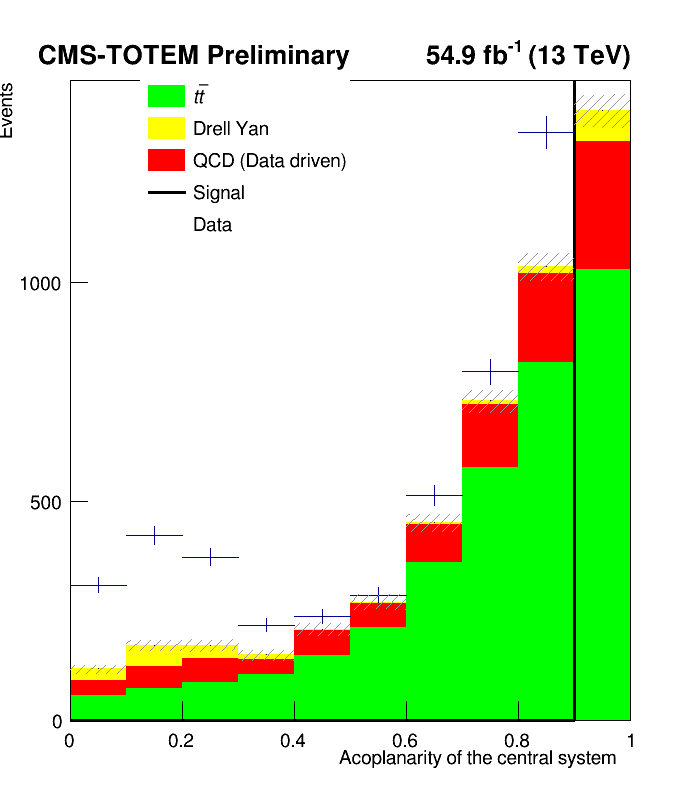
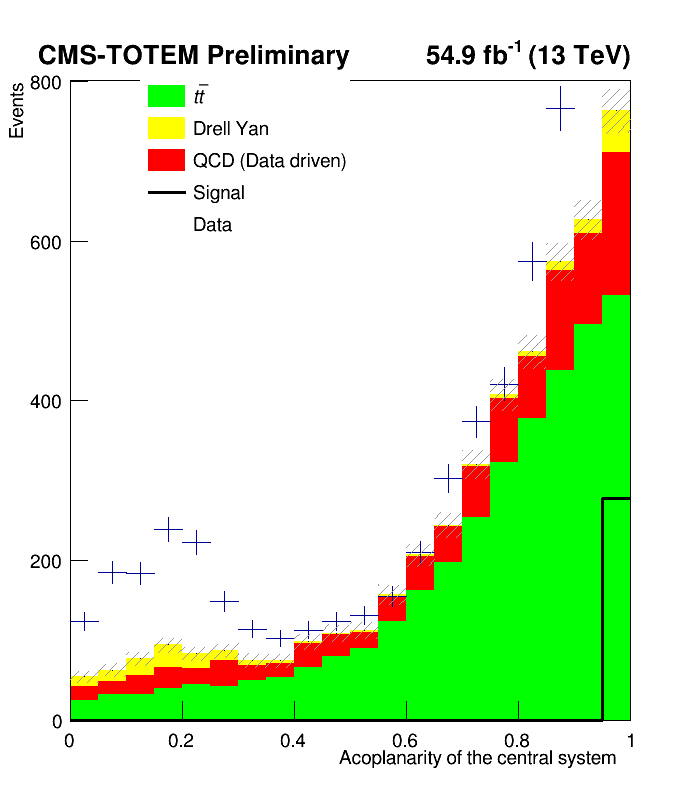
back to plots looking reasonable

diff --git a/MuTau_channel/plot_m_new.cpp b/MuTau_channel/plot_m_new.cpp
@@ -71,15 +71,15 @@ int main(){
         double w_qcd=1.;
         double w_ttjets=0.15;
         double w_dy=1.81;
-	double w_sinal=0.5;
+	    double w_sinal=0.02;
 
         double min_aco=0.0;
         double max_aco=1.0;
-        int bin_aco=10;
+        int bin_aco=20;
 
         double min_m=0;
         double max_m=1200;
-        int  bin_m=10;
+        int  bin_m=30;
 
         double min_r=-2.2;
         double max_r=2.2;
@@ -87,11 +87,11 @@ int main(){
 
 	double min_pt=0;
         double max_pt=600;
-        int bin_pt=10;
+        int bin_pt=30;
 
 	double min_mm=-1500;
         double max_mm=200;
-        int bin_mm=10;
+        int bin_mm=20;
 
 	double min_ra=-2.2;
         double max_ra=2.2;
@@ -235,9 +235,9 @@ int main(){
                 int o=tree_data->GetEvent(i);
                 if(tree_data->GetLeaf("sist_mass") ->GetValue(0) >=0){
                         // w_data = tree_data->GetLeaf("weight")->GetValue(0);
-                        w_data=1;
-                        w_qcd = tree_qcd->GetLeaf("weight")->GetValue(0);
-                        cout<<"q_qcd"<<w_qcd<<endl;
+                        // w_data=1;
+                        // w_qcd = tree_qcd->GetLeaf("weight")->GetValue(0);
+                        // cout<<"q_qcd"<<w_qcd<<endl;
                         
                 n_data = n_data + w_data;
                 // cout << "i am here 1" << endl;
@@ -383,7 +383,7 @@ int main(){
                 // w_sinal=1*50;
                 // cout<<"w_sinal: "<<w_sinal<<endl;
                 m_sinal.Fill(tree_sinal->GetLeaf("sist_mass")->GetValue(0),w_sinal);
-		aco_sinal.Fill(tree_sinal->GetLeaf("sist_acop")->GetValue(0),w_sinal);
+		aco_sinal.Fill(tree_sinal->GetLeaf("acop")->GetValue(0),w_sinal);
 		r_sinal.Fill(tree_sinal->GetLeaf("sist_rap")->GetValue(0)-0.5*log(tree_sinal->GetLeaf("xi_arm1_1")->GetValue(0)/tree_sinal->GetLeaf("xi_arm2_1")->GetValue(0)),w_sinal);
 		pt_sinal.Fill(tree_sinal->GetLeaf("sist_pt")->GetValue(0),w_sinal);
 		mm_sinal.Fill(tree_sinal->GetLeaf("sist_mass")->GetValue(0)-13000.*sqrt(tree_sinal->GetLeaf("xi_arm1_1")->GetValue(0)*tree_sinal->GetLeaf("xi_arm2_1")->GetValue(0)),w_sinal);

diff --git a/MuTau_channel/plot_var.py b/MuTau_channel/plot_var.py
@@ -1,13 +1,13 @@
 import ROOT
 
 # --- User Configurable ---
-input_file = "MuTau_sinal_SM_2018_july.root"    # Change to your file
+input_file = "/eos/home-m/mblancco/samples_2018_mutau/ttjets_2018_UL_MuTau_nano_merged_pileup_protons.root"    # Change to your file
 tree_name = "tree"                # TTree name
 variable = "sist_mass"                # Variable to plot
 bins = 50                         # Number of bins
 x_min = 0                         # X-axis min
 x_max = 1000                     # X-axis max
-output_plot = "sist_mass_sinal_pmutau.png"    # Output image file
+output_plot = "sist_mass_ttjets_pmutau.png"    # Output image file
 
 # --- Open the ROOT file ---
 f = ROOT.TFile.Open(input_file)
